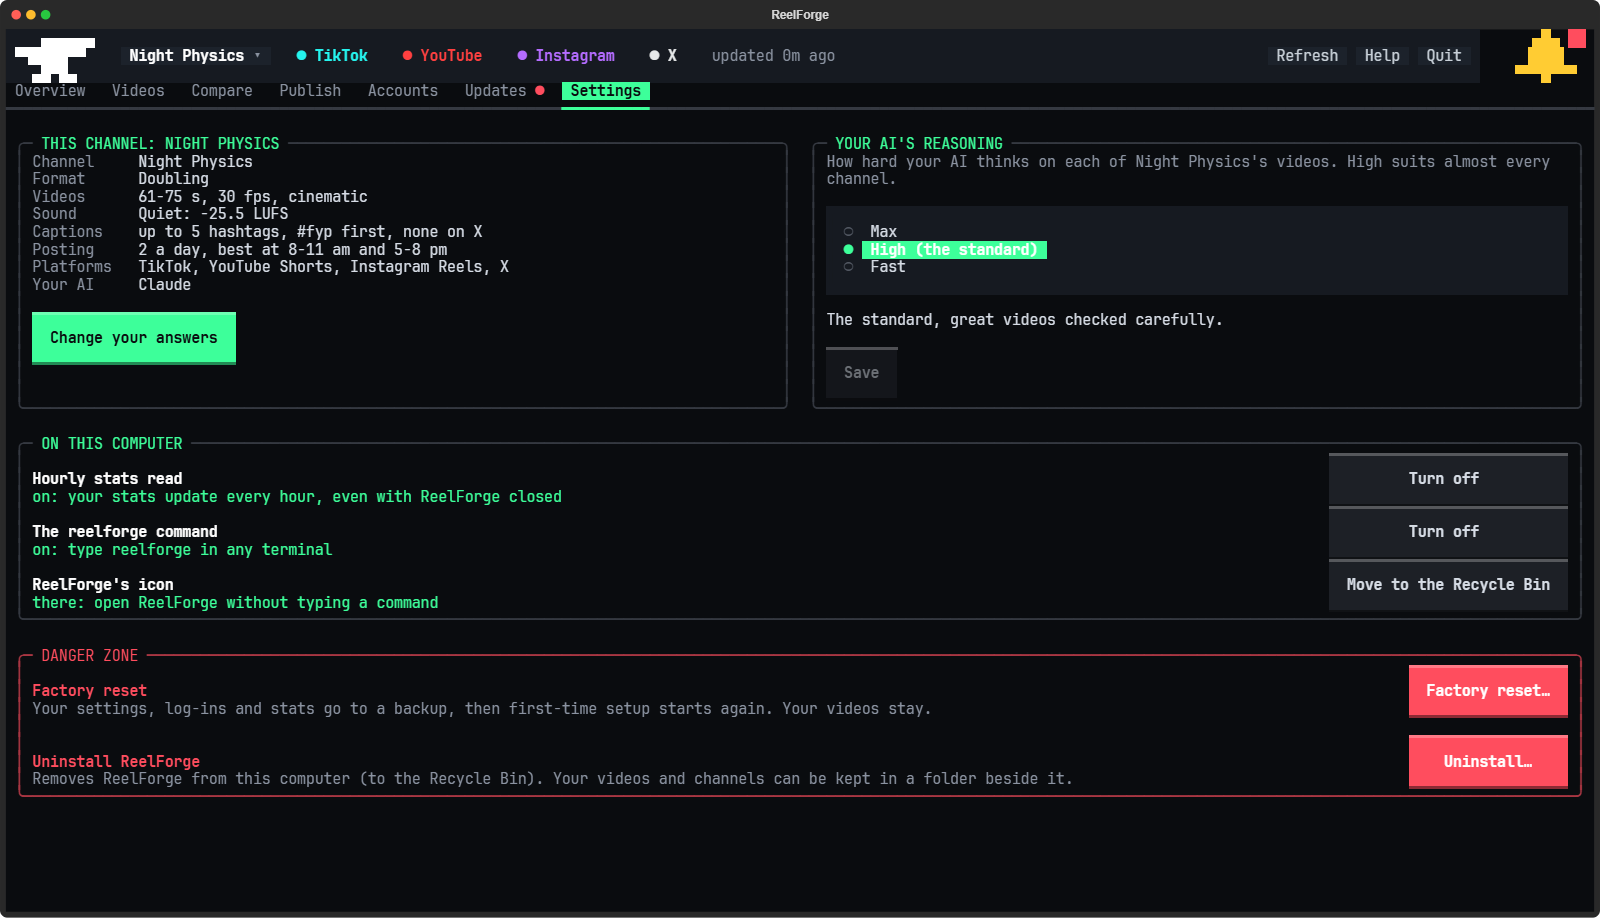
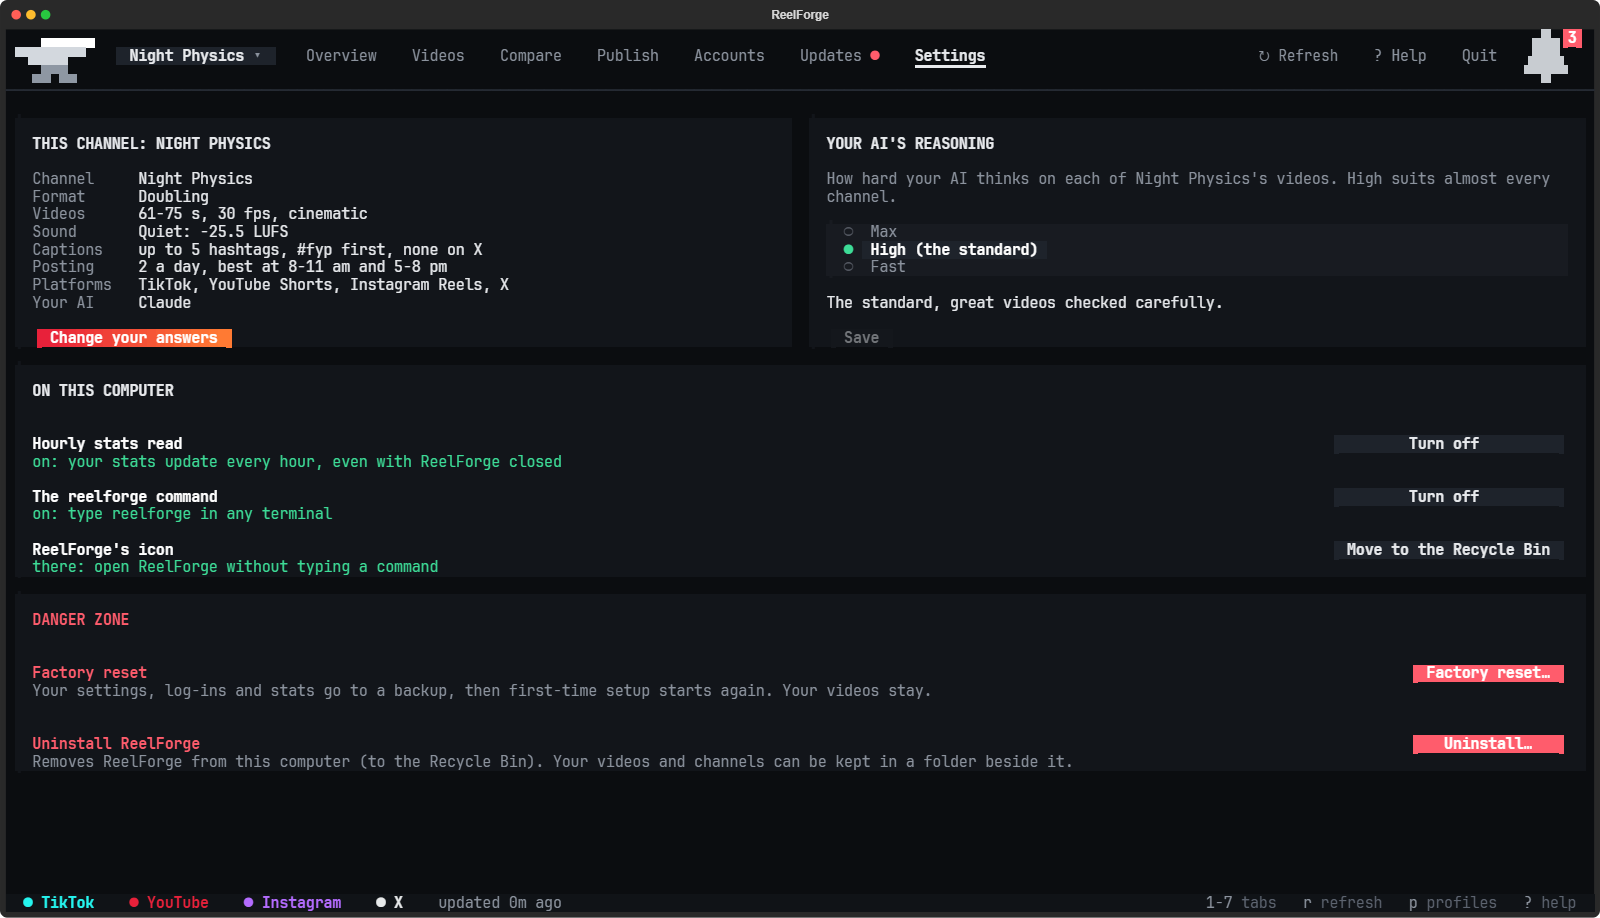
ReelForge 1.0.6
ReelForge's new look (a calm dark window with panels instead of boxes, big numbers that count up,
charts that grow in, sliding tabs and a status bar), with everything since 1.0.5: more than one
channel, private-window sign-ups, the Settings tab with factory reset and uninstall, and the
mascot. The release notes lead with the new look, and the screenshots are retaken for this
version.

diff --git a/studio/__init__.py b/studio/__init__.py
@@ -7,5 +7,5 @@
 
 KIT_NAME = "ReelForge"
 KIT_SLUG = "reelforge"
-KIT_VERSION = "1.0.5"
+KIT_VERSION = "1.0.6"
 BLENDER_VERSION = "4.5.5"   # the Blender LTS the pipeline is built and tested on (any 4.5.x works)

diff --git a/.github/release-notes.md b/.github/release-notes.md
@@ -1,5 +1,11 @@
 ## What's new in 1.0.6
 
+- **A new look.** ReelForge's window is calm and dark, with panels instead of boxes and each platform in its own
+  colour, so your numbers stand out.
+  - Each platform's followers in big numbers that count up, with its views hour by hour under them.
+  - Charts grow in, the tabs slide, and the bell shows how many notifications are new.
+  - The bar along the bottom shows each platform, when your stats were read and the keys.
+  - In a small window the Overview's panels stack and scroll instead of squeezing.
 - **Run more than one channel.** Each channel is a profile with its own accounts, stats, notifications and videos.
   - Switch with the channel button at the top left, or press **p**. A red dot means another one has news.
   - **New profile** asks a few questions about the channel, then opens its Accounts tab.
@@ -18,8 +24,8 @@
   - **Factory reset** puts your settings, logins and stats in a backup, then first-time setup again. Videos stay.
   - **Uninstall** removes ReelForge and keeps your videos in a folder beside it. `reelforge uninstall` does it too.
   - Both ask you to type your channel's name, never delete anything for good, and never stop half-way.
-- **The setup box fits any window.** It stays whole in a small window or one you resize, and the hints on its bottom
-  edge are gone.
+- **First-time setup fits any window.** Its screens sit on the same calm dark as the window, stay whole in a small
+  window or one you resize, and the hints along their bottom edge are gone.
 - **Meet the anvil, ReelForge's mascot.** He winks hello in first-time setup, hammers while it downloads and hops
   when it's all ready. On the Updates tab he hammers while an update installs, and he naps where there's nothing yet.
 
